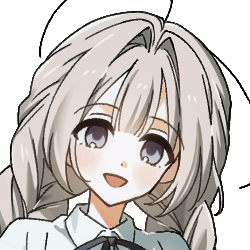
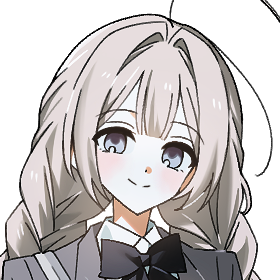
/

diff --git a/js/script.js b/js/script.js
@@ -64,7 +64,7 @@ document.addEventListener("DOMContentLoaded", function() {
       teg1:"#온화한",
       teg2:"#괴짜",
       teg3:"#운명론자",
-      imageLeft: "https://via.placeholder.com/250x250?text=250x250", //전신
+      imageLeft: "image/chiharu_head.png", //전신
       imageRight: "image/chiharu.png",  //sd
       description: `
         <span style='display: block; color:#C4C2D3; font-size: 30pt; font-weight: 700; margin: 0 0 10px 0;'>Profile</span>
@@ -118,7 +118,7 @@ document.addEventListener("DOMContentLoaded", function() {
       teg1:"#제멋대로인 바보",
       teg2:"#부끄러움 많고 어설픈",
       teg3:"#사랑에 빠져있음!",
-      imageLeft: "https://via.placeholder.com/250x250?text=250x250", //전신
+      imageLeft: "image/moe_head.png", //전신
       imageRight: "https://via.placeholder.com/380x450?text=380x450",  //sd
       description: `
          <span style='display: block; color:#FFE182; font-size: 30pt; font-weight: 700; margin: 0 0 10px 0;'>Profile</span>
@@ -199,7 +199,7 @@ document.addEventListener("DOMContentLoaded", function() {
       teg1:"#용의주도한",
       teg2:"#자존심 강한",
       teg3:"#냉혈한",
-      imageLeft: "https://via.placeholder.com/250x250?text=250x250", //전신
+      imageLeft: "image/endo_head.png", //전신
       imageRight: "https://via.placeholder.com/380x450?text=380x450",  //sd
       description: `
          <span style='display: block; color:#B5A6B8; font-size: 30pt; font-weight: 700; margin: 0 0 10px 0;'>Profile</span>

diff --git a/character.html b/character.html
@@ -32,12 +32,12 @@
  <div class="character-row">
   <img src="image/yohei_head.png" alt="이치노세 요헤이" class="character-face" onclick="showCharacter('yohei')">
   <img src="https://via.placeholder.com/100" alt="요시노 린" class="character-face" onclick="showCharacter('yoshino')">
-  <img src="https://via.placeholder.com/100" alt="사카가미 치하루" class="character-face" onclick="showCharacter('chiharu')">
+  <img src="image/chiharu_head.png" alt="사카가미 치하루" class="character-face" onclick="showCharacter('chiharu')">
   <img src="image/shigeto_head.png" alt="시게토 미사오" class="character-face" onclick="showCharacter('shigeto')">
-  <img src="https://via.placeholder.com/100" alt="혼다 모에" class="character-face" onclick="showCharacter('moe')">
+  <img src="image/moe_head.png" alt="혼다 모에" class="character-face" onclick="showCharacter('moe')">
   <img src="https://via.placeholder.com/100" alt="타카나시 료마" class="character-face" onclick="showCharacter('takanashi')">
   <img src="https://via.placeholder.com/100" alt="사사모리 코노미" class="character-face" onclick="showCharacter('konomi')">
-  <img src="https://via.placeholder.com/100" alt="엔도 미츠키" class="character-face" onclick="showCharacter('endo')">
+  <img src="image/endo_head.png" alt="엔도 미츠키" class="character-face" onclick="showCharacter('endo')">
 </div>
 
 <!-- 캐릭터 소개 섹션 -->
